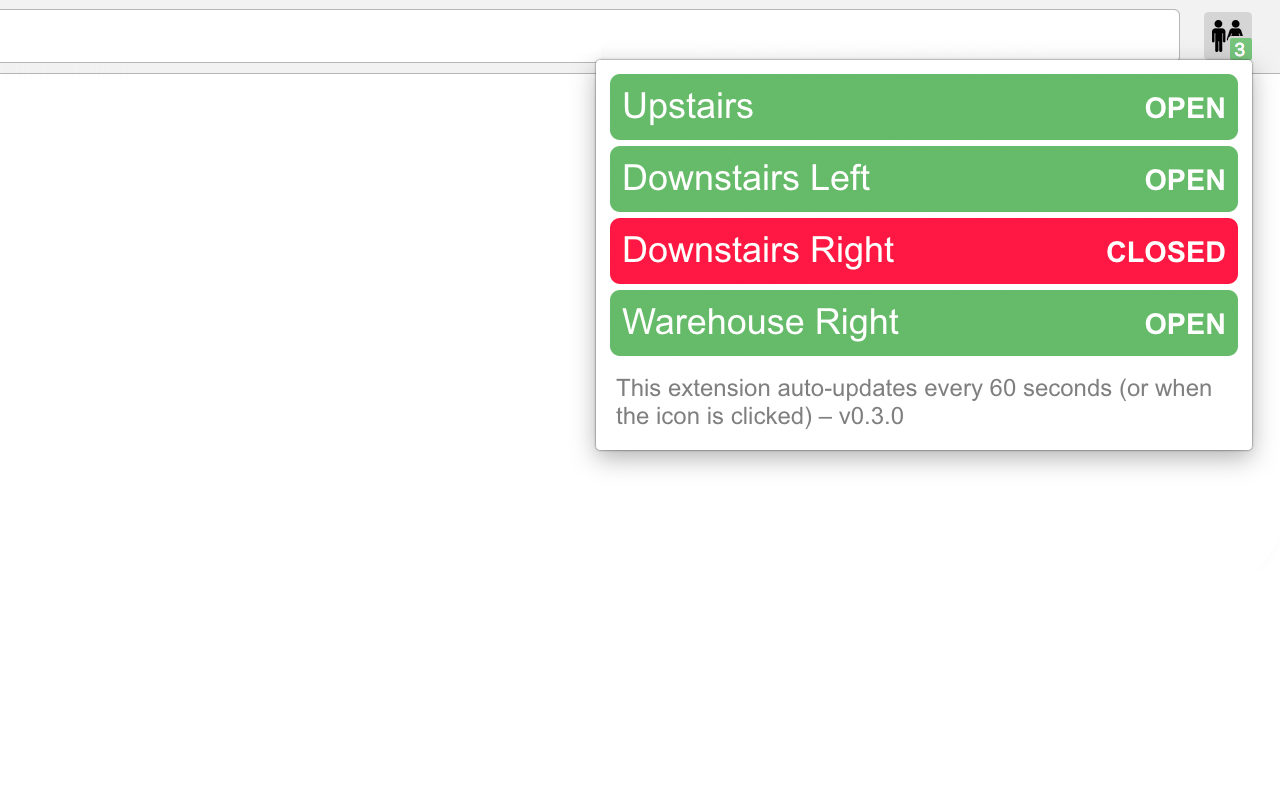
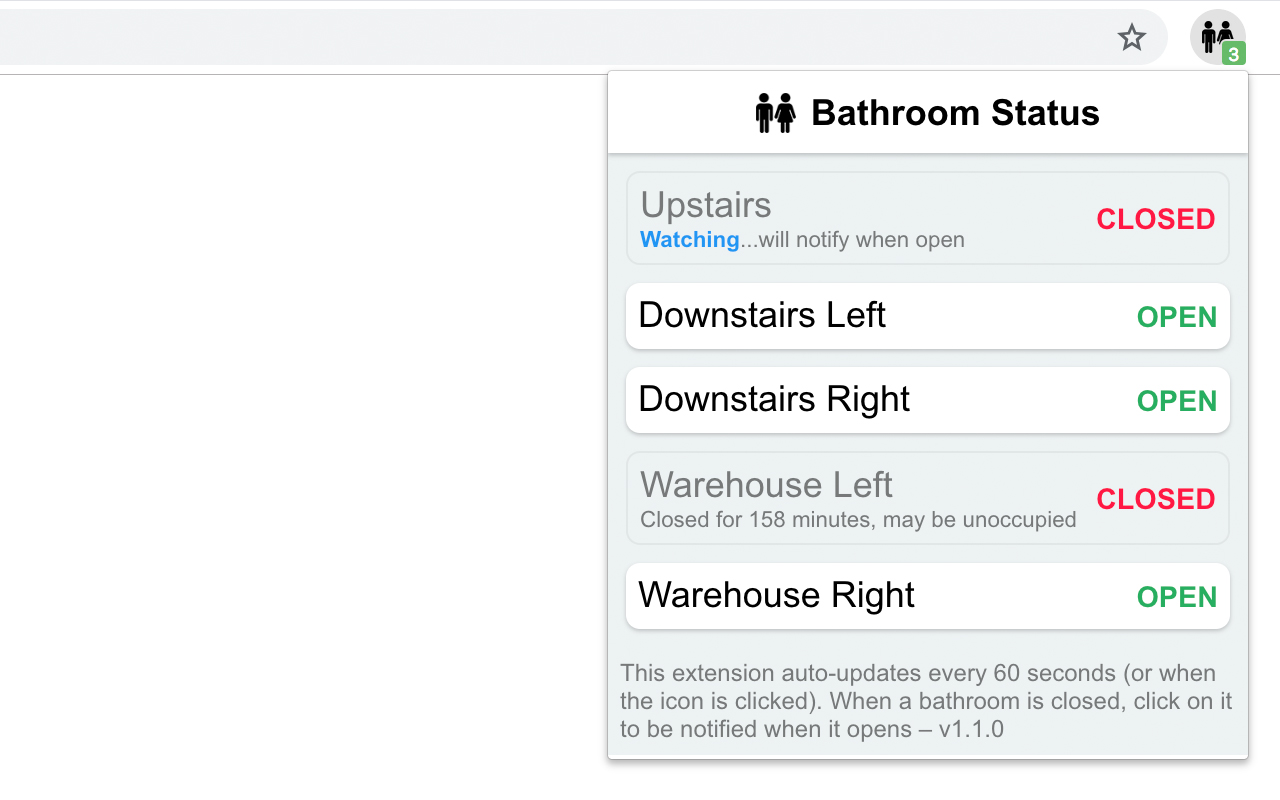
v1.1.0
- Show battery level when low
- Improve design
- Closed bathrooms can be watched and a notification will be sent when open again

Changed region(s): [[0.0, 0.0, 1.0, 0.6875], [0.4688, 0.7188, 0.9688, 0.9688]]

diff --git a/src/models.js b/src/models.js
@@ -11,8 +11,8 @@ module.exports = class Sensors {
 	
 	get length(){ return this.models.length }
 	
-	reset(data){
-		this.models = data ? data.map(d=>new Sensor(d)) : []
+	reset(data, notify=false){
+		this.models = data ? data.map(d=>new Sensor(d, notify)) : []
 	}
 	
 	toJSON(){
@@ -23,6 +23,10 @@ module.exports = class Sensors {
 		this.models.forEach(fn)
 	}
 	
+	get(id){
+		return this.models.find(m=>m.id==id)
+	}
+	
 	get numOpen(){
 		return this.models.filter(m=>m.isOpen).length
 	}
@@ -30,7 +34,7 @@ module.exports = class Sensors {
 
 
 class Sensor {
-	constructor(data) {
+	constructor(data, notify=false) {
 		this.data = data
 		
 		let wasOpen = JSON.parse(localStorage.getItem('sensor:'+this.id+':isOpen') || false);
@@ -39,6 +43,9 @@ class Sensor {
 			localStorage.setItem('sensor:'+this.id+':lastUpdated', (new Date).getTime())
 		
 		localStorage.setItem('sensor:'+this.id+':isOpen', this.isOpen)
+		
+		if( notify )
+			this.notifyIfWatching()
 	}
 	
 	get id(){ return this.data.uuid}
@@ -47,7 +54,7 @@ class Sensor {
 	
 	get isOpen(){ return this.data.eventState == 3}
 	
-	get battery(){ return this.data.batteryRemaining }
+	get battery(){ return this.data.batteryRemaining * 100 }
 	
 	get type(){ return TagTypeMap[this.data.tagType] || 'unknown' }
 	
@@ -77,6 +84,43 @@ class Sensor {
 	
 	toString(){
 		return this.name + ' ('+(this.isOpen?'Open':'Closed')+') '+this.lastCommRelative
+	}
+	
+	get isWatching(){
+		return this.watching().includes(this.id)
+	}
+	
+	watching(){
+		return JSON.parse(localStorage.getItem('sensor:watch')||'[]')
+	}
+	
+	watch(doWatch=true){
+		
+		let watching = this.watching()
+		let indx = watching.indexOf(this.id)
+		
+		if( doWatch && indx < 0 )
+			watching.push(this.id)
+			
+		else if( !doWatch && indx >= 0 )
+			watching.splice(indx, 1)
+		
+		localStorage.setItem('sensor:watch', JSON.stringify(watching))
+	}
+	
+	notifyIfWatching(){
+		// only notify when the bathroom is open
+		if( !this.isOpen || !this.isWatching ) return;
+		
+		chrome.notifications.create(String((new Date).getTime()), {
+			type: "basic",
+			title: 'Bathroom Status',
+			message: this.name+' is Open',
+			iconUrl: '../icons/128x128.png'
+		})
+		
+		// this.watch(false)
+		localStorage.setItem('sensor:watch', '[]') // stop watching all bathrooms
 	}
 	
 	// http://wirelesstag.net/jshtmlview.aspx?html=index.html&js=styles/client.js

diff --git a/src/style.less b/src/style.less
@@ -2,11 +2,24 @@ body {
   font-family: arial;
   width: 320px;
   margin: 0;
-  padding: .25em;
+  padding: 0;
   -webkit-font-smoothing: antialiased;
+  background: #edf2f3;
 }
+
 * {
   outline: none;
+}
+
+header {
+    background: #fff;
+    padding: .75em 1em;
+    text-align: center;
+    box-shadow: rgba(0,0,0,.2) 0 1px 2px;
+    
+    h2 {
+        font-weight: bold;
+    }
 }
 
 
@@ -22,10 +35,11 @@ hr {
     display: flex;
     justify-content: space-between;   
     padding: .5em;
-    margin: .25em;
-    background: #f5f5f5;
-    border-radius: 5px;
-    color: #fff;
+    margin: .75em;
+    background: #fff;
+    border-radius: 7px;
+    color: #000;
+    box-shadow: rgba(0,0,0,.2) 0 1px 2px;
 }
 
 h2 {
@@ -33,6 +47,12 @@ h2 {
     padding: 0;
     flex-shrink: 0;
     font-weight: normal;
+    
+    img {
+        height: 1em;
+        vertical-align: text-top;
+        margin-right: -.25em;
+    }
 }
 
 h2.status {
@@ -42,12 +62,30 @@ h2.status {
     align-self: center;
 }
 
-[data-status="Open"]{
-    background: #66BB6A; 
+[data-status="Open"] .status {
+    color: #27ae60; 
 }
 
 [data-status="Closed"]{
-    background: #ff1744; 
+    cursor: pointer;
+    // background: #ffebee;
+    background: none;
+    box-shadow: none;
+    border: solid 1px rgba(0,0,0,.05);
+    // color: #fff;
+    color: rgba(0,0,0,.5);
+    
+    &:hover {
+        border: solid 1px rgba(0,0,0,.1);
+    }
+    
+    .status {
+        color: #ff1744;
+    }
+    
+    img {
+        opacity: .5
+    }
 }
 
 .meta {
@@ -58,4 +96,9 @@ h2.status {
 .updated {
     display: block;
     font-size: .7rem;
+}
+
+.watching {
+    color: #2196F3;
+    font-weight: bold;
 }

diff --git a/src/index.js b/src/index.js
@@ -29,17 +29,43 @@ function fetch(){
 				updated = 'Closed for '+updated+' minutes, may be unoccupied'
 			else
 				updated = ''
+				
+			if( m.isWatching ){
 			
-			return `<div class="sensor" data-status=${status}>
-				<h2>${d.name}
+				if( m.isOpen )
+					m.watch(false)
+				else
+					updated = '<span class="watching">Watching</span>...will notify when open'
+			}
+			
+			let battery = m.battery < CONFIG.BATTERY_WARNING_LEVEL ? `&nbsp;<img src="../src/battery.png"> ${m.battery}%` : ''
+			
+			return `<div class="sensor" data-status=${status} data-id="${m.id}">
+				<h2>${d.name} ${battery}
 					<span class="updated">${updated}</span>
 				</h2>
 				<h2 class="status">${status}</h2>
 			</div>`
 			
 		}).join("\n")
+		
+		document.querySelectorAll('.sensor').forEach(el=>{
+			el.addEventListener('click', watch)
+		})
 	})
 
+}
+
+function watch(e){
+	
+	let id = e.currentTarget.dataset.id
+	let sensor = sensors.get(id)
+		
+	if( !sensor || sensor.isOpen ) return;
+	
+	sensor.watch(!sensor.isWatching)
+	
+	e.currentTarget.querySelector('.updated').innerHTML = sensor.isWatching ? '<span class="watching">Watching</span>...will notify when open' : ''
 }
 
 fetch();

diff --git a/src/background.js b/src/background.js
@@ -4,7 +4,7 @@ const CONFIG = require('./config')
 var Sensors = require('./models')
 let sensors = new Sensors()
 
-function fetchSensors(){
+function fetchSensors(notify){
 	
 	return fetch(CONFIG.URL+'/ethClient.asmx/GetTagList2', {
 		method: 'post',
@@ -16,7 +16,7 @@ function fetchSensors(){
 	.then(resp=>resp.json())
 	.then(data=>{
 		
-		sensors.reset(data.d)
+		sensors.reset(data.d, notify!==false)
 		
 		updateBadge()
 		
@@ -32,7 +32,7 @@ function updateBadge(){
 	// set the toolbar badge color and text
 	if( numOpen > 0 ){
 		chrome.browserAction.setBadgeText({text: String(numOpen)})
-		chrome.browserAction.setBadgeBackgroundColor({color: '#66BB6A'})
+		chrome.browserAction.setBadgeBackgroundColor({color: '#27ae60'})
 	}else{
 		chrome.browserAction.setBadgeText({text: ' '})
 		chrome.browserAction.setBadgeBackgroundColor({color: '#ff1744'})
@@ -50,7 +50,7 @@ chrome.runtime.onMessage.addListener((req, sender, sendResponse) => {
 	
 	if( req.cmd == 'status' ){
 		
-		fetchSensors().then(()=>{
+		fetchSensors(false).then(()=>{
 			sendResponse(sensors)
 		})
 		return true;

diff --git a/src/index.html b/src/index.html
@@ -8,10 +8,14 @@
 	
 <body>
 	
+	<header>
+		<h2><img src="../icons/48x48.png" style="vertical-align: text-bottom; height: 20px; margin-right: .15em" /> Bathroom Status</h2>
+	</header>
+	
 	<div id="statuses"></div>
 	
 	<div class="meta">
-		This extension auto-updates every 60 seconds (or when the icon is clicked)<span id="version"></span>
+		This extension auto-updates every 60 seconds (or when the icon is clicked). When a bathroom is closed, click on it to be notified when it opens<span id="version"></span>
 	</div>
 	
 	<script src="./index.js"></script>

diff --git a/src/config.js b/src/config.js
@@ -2,5 +2,6 @@ module.exports = {
 	URL: "https://www.mytaglist.com", // if this changes, make sure to also update in /manifest.json
 	AUTH_TOKEN: "",
 	AUTO_UPDATE: 60 * 1000, // ms
-	SHOW_TIME_AFTER: 10 // minutes
+	SHOW_TIME_AFTER: 15, // minutes
+	BATTERY_WARNING_LEVEL: 20 // show battery % when under
 }

diff --git a/README.md b/README.md
@@ -1,12 +1,14 @@
 
 # <img src="icons/32x32.png"> Bathroom Status Chrome Extension
 
-![Version 1.0.0](https://img.shields.io/badge/Version-1.0.0-blue.svg)
-![Auhor](https://img.shields.io/badge/Author-Kevin_Jantzer-blue.svg)
+![Version 1.1.0](https://img.shields.io/badge/Version-1.1.0-blue.svg)
+![Author](https://img.shields.io/badge/Author-Kevin_Jantzer-blue.svg)
+[![Install](https://img.shields.io/badge/Chrome_Webstore-Install-brightgreen.svg)](https://chrome.google.com/webstore/detail/ngieggdpiiohlhkbfgooiijpdclbcpii)
+
 
 >Display the open/closed status of the bathrooms using door sensors by [WirelessTag.net](http://wirelesstag.net/)
 
-![screenshot](https://i.imgur.com/5v6dHdm.jpg)
+![screenshot](https://i.imgur.com/assHI11.jpg)
 
 # How it Works
 
@@ -32,5 +34,10 @@ Creating AUTH TOKEN → http://wirelesstag.net/eth/oauth2_apps.html
 
 # Changelog
 
-v1.0.0 • 2018-05-04
+#### v1.1.0 • 2018-10-05
+- Show battery level when low
+- Improve design
+- Closed bathrooms can be watched and a notification will be sent when open again
+
+#### v1.0.0 • 2018-05-04
 - Initial release
